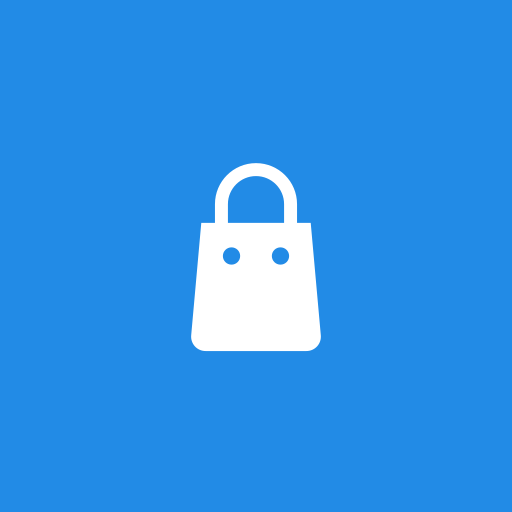
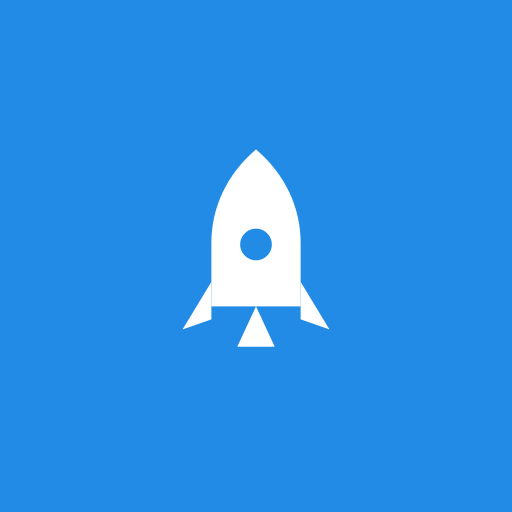
feat: rename project to "Starter Kit", update related documentation and translations

Changed region(s): [[0.3438, 0.2812, 0.6562, 0.6875]]

diff --git a/src/lib/i18n/locales/ur/common.ts b/src/lib/i18n/locales/ur/common.ts
@@ -2,7 +2,7 @@ import type { CommonTranslations } from '#/lib/i18n/locales/types'
 
 export const common: CommonTranslations = {
   app: {
-    name: 'کامرس',
+    name: 'سٹارٹر کٹ',
   },
   actions: {
     getStarted: 'شروع کریں',
@@ -79,23 +79,24 @@ export const common: CommonTranslations = {
   },
   features: {
     trust: {
-      title: 'صارفین کا بھروسہ',
-      description: 'ہر خریدار کے لیے محفوظ سائن ان اور محفوظ اکاؤنٹس۔',
+      title: 'پہلے سے محفوظ',
+      description:
+        'محفوظ سائن ان اور محفوظ اکاؤنٹس، رول کی بنیاد پر اجازتوں کے ساتھ۔',
     },
     speed: {
       title: 'ہر جگہ تیز رفتار',
-      description: 'ہر آلے پر ہر خریدار کے لیے صفحات فوری لوڈ ہوتے ہیں۔',
+      description: 'ہر آلے پر ہر صارف کے لیے صفحات فوری لوڈ ہوتے ہیں۔',
     },
     design: {
       title: 'دن ہو یا رات، شاندار نظر آئے',
-      description: 'ایک صاف ستھرا اسٹور فرنٹ جو لائٹ اور ڈارک موڈ کے مطابق ڈھل جاتا ہے۔',
+      description: 'ایک صاف ستھرا انٹرفیس جو لائٹ اور ڈارک موڈ کے مطابق ڈھل جاتا ہے۔',
     },
   },
   sidebar: {
     collapse: 'سائیڈبار سکیڑیں',
     expand: 'سائیڈبار پھیلائیں',
     close: 'سائیڈبار بند کریں',
-    backToStore: 'اسٹور پر واپس جائیں',
+    backToHome: 'ہوم پر واپس جائیں',
   },
   statCard: {
     vsLastPeriod: 'پچھلی مدت کے مقابلے میں',

diff --git a/src/lib/i18n/locales/ur/site.ts b/src/lib/i18n/locales/ur/site.ts
@@ -2,19 +2,18 @@ import type { SiteTranslations } from '#/lib/i18n/locales/types'
 
 export const site: SiteTranslations = {
   landing: {
-    badge: 'جدید اسٹور فرنٹس کے لیے تیار کردہ',
-    heroTitle: 'آن لائن فروخت کریں، بغیر',
-    heroHighlight: 'اضافی بوجھ کے',
+    badge: 'ٹین اسٹیک اسٹارٹ کے لیے ایک سٹارٹر کٹ',
+    heroTitle: 'اپنی اگلی ایپ بنائیں',
+    heroHighlight: 'بغیر بوائلر پلیٹ کے',
     subtitle:
-      'ایک تیز اور محفوظ اسٹور فرنٹ لانچ کریں جسے آپ کے گاہک پسند کریں گے۔ یہ اس طرح بنایا گیا ہے کہ آپ کے راستے میں نہ آئے، تاکہ آپ فروخت پر توجہ مرکوز کر سکیں۔',
+      'تصدیق، رول کی بنیاد پر اجازتیں، آف لائن ڈیٹا، اور کلاؤڈ فلیئر پر مبنی API — سب تیار، تاکہ آپ اپنی پروڈکٹ پر توجہ دے سکیں۔',
     getHelp: 'مدد حاصل کریں',
     announcementsLink: 'اعلانات',
     contactLink: 'ہم سے رابطہ کریں',
   },
   help: {
     title: 'مدد اور عمومی سوالات',
-    subtitle:
-      'اس ڈیش بورڈ سے اپنا اسٹور چلانے سے متعلق عام سوالات کے جوابات۔',
+    subtitle: 'اس ڈیش بورڈ کے استعمال سے متعلق عام سوالات کے جوابات۔',
     faqs: [
       {
         question: 'میں نیا پروڈکٹ کیسے شامل کروں؟',

diff --git a/src/lib/i18n/locales/en/common.ts b/src/lib/i18n/locales/en/common.ts
@@ -2,7 +2,7 @@ import type { CommonTranslations } from '#/lib/i18n/locales/types'
 
 export const common: CommonTranslations = {
   app: {
-    name: 'Commerce',
+    name: 'Starter Kit',
   },
   actions: {
     getStarted: 'Get started',
@@ -79,23 +79,24 @@ export const common: CommonTranslations = {
   },
   features: {
     trust: {
-      title: 'Trusted by customers',
-      description: 'Secure sign-in and protected accounts for every shopper.',
+      title: 'Secure by default',
+      description:
+        'Secure sign-in and protected accounts, with role-based permissions out of the box.',
     },
     speed: {
       title: 'Blazing fast, everywhere',
-      description: 'Pages load instantly for every customer, on any device.',
+      description: 'Pages load instantly for every user, on any device.',
     },
     design: {
       title: 'Looks great, day or night',
-      description: 'A clean storefront that adapts to light and dark mode.',
+      description: 'A clean interface that adapts to light and dark mode.',
     },
   },
   sidebar: {
     collapse: 'Collapse sidebar',
     expand: 'Expand sidebar',
     close: 'Close sidebar',
-    backToStore: 'Back to store',
+    backToHome: 'Back to home',
   },
   statCard: {
     vsLastPeriod: 'vs last period',

diff --git a/src/routes/auth/route.tsx b/src/routes/auth/route.tsx
@@ -1,6 +1,6 @@
 import { Link, Outlet, createFileRoute, redirect } from '@tanstack/react-router'
 import { Group, Stack, Text, Title } from '@mantine/core'
-import { IconShoppingBag } from '@tabler/icons-react'
+import { IconRocket } from '@tabler/icons-react'
 import { useTranslation } from 'react-i18next'
 import { features } from '#/lib/features'
 import { RouteError } from '#/components/layout/route-error'
@@ -36,7 +36,7 @@ function AuthLayout() {
         />
 
         <Link to="/" className="relative inline-flex w-fit items-center gap-2">
-          <IconShoppingBag size={28} stroke={1.5} />
+          <IconRocket size={28} stroke={1.5} />
           <Text fw={700} size="lg" c="white">
             {tCommon('app.name')}
           </Text>
@@ -82,7 +82,7 @@ function AuthLayout() {
       <div className="flex items-center justify-center p-6 sm:p-10">
         <div className="w-full max-w-sm">
           <div className="mb-8 flex items-center gap-2 lg:hidden">
-            <IconShoppingBag size={24} stroke={1.75} />
+            <IconRocket size={24} stroke={1.75} />
             <Text fw={700} size="lg">
               {tCommon('app.name')}
             </Text>

diff --git a/src/lib/i18n/locales/ur/auth.ts b/src/lib/i18n/locales/ur/auth.ts
@@ -2,9 +2,10 @@ import type { AuthTranslations } from '#/lib/i18n/locales/types'
 
 export const auth: AuthTranslations = {
   layout: {
-    title: 'آن لائن فروخت کے لیے آپ کو ہر چیز میسر ہے۔',
-    subtitle: 'ایک تیز، محفوظ اسٹور فرنٹ لانچ کریں اور اسے ایک ہی جگہ سے منظم کریں۔',
-    copyright: '© {{year}} کامرس',
+    title: 'اپنی اگلی ایپ بنانے کے لیے آپ کو ہر چیز میسر ہے۔',
+    subtitle:
+      'تصدیق، اجازتیں، اور ایک ایڈمن ڈیش بورڈ — سب تیار، بنانے کے لیے۔',
+    copyright: '© {{year}} سٹارٹر کٹ',
   },
   signIn: {
     title: 'خوش آمدید',
@@ -20,7 +21,7 @@ export const auth: AuthTranslations = {
   },
   setup: {
     title: 'شروع کریں',
-    subtitle: 'اپنا اسٹور سیٹ اپ کرنے کے لیے پہلا اکاؤنٹ بنائیں',
+    subtitle: 'شروع کرنے کے لیے پہلا اکاؤنٹ بنائیں',
     nameLabel: 'نام',
     namePlaceholder: 'جین ڈو',
     nameRequired: 'نام درکار ہے',

diff --git a/src/routes/__root.tsx b/src/routes/__root.tsx
@@ -60,12 +60,12 @@ export const Route = createRootRouteWithContext<{
           content: 'width=device-width, initial-scale=1',
         },
         {
-          title: 'Commerce | Sell online without the overhead',
+          title: 'Starter Kit | A batteries-included TanStack Start admin panel',
         },
         {
           name: 'description',
           content:
-            'Launch a fast, secure storefront your customers will love. Built to get out of your way, so you can focus on selling.',
+            'A production-ready starter kit for TanStack Start — authentication, role-based permissions, offline-first data, and a Cloudflare-native API, ready to build on.',
         },
         {
           name: 'theme-color',
@@ -73,11 +73,11 @@ export const Route = createRootRouteWithContext<{
         },
         {
           name: 'application-name',
-          content: 'Commerce',
+          content: 'Starter Kit',
         },
         {
           name: 'apple-mobile-web-app-title',
-          content: 'Commerce',
+          content: 'Starter Kit',
         },
         {
           name: 'apple-mobile-web-app-capable',

diff --git a/src/lib/i18n/locales/en/site.ts b/src/lib/i18n/locales/en/site.ts
@@ -2,19 +2,18 @@ import type { SiteTranslations } from '#/lib/i18n/locales/types'
 
 export const site: SiteTranslations = {
   landing: {
-    badge: 'Built for modern storefronts',
-    heroTitle: 'Sell online without',
-    heroHighlight: 'the overhead',
+    badge: 'A TanStack Start starter kit',
+    heroTitle: 'Build your next app',
+    heroHighlight: 'without the boilerplate',
     subtitle:
-      'Launch a fast, secure storefront your customers will love. Built to get out of your way, so you can focus on selling.',
+      'Authentication, role-based permissions, offline-first data, and a Cloudflare-native API — all wired up, so you can focus on your product.',
     getHelp: 'Get help',
     announcementsLink: 'Announcements',
     contactLink: 'Contact us',
   },
   help: {
     title: 'Help & FAQ',
-    subtitle:
-      'Answers to common questions about running your store from this dashboard.',
+    subtitle: 'Answers to common questions about using this dashboard.',
     faqs: [
       {
         question: 'How do I add a new product?',

diff --git a/src/lib/i18n/locales/en/auth.ts b/src/lib/i18n/locales/en/auth.ts
@@ -2,9 +2,10 @@ import type { AuthTranslations } from '#/lib/i18n/locales/types'
 
 export const auth: AuthTranslations = {
   layout: {
-    title: 'Everything you need to sell online.',
-    subtitle: 'Launch a fast, secure storefront and manage it all from one place.',
-    copyright: '© {{year}} Commerce',
+    title: 'Everything you need to ship your next app.',
+    subtitle:
+      'Authentication, permissions, and an admin dashboard — wired up and ready to build on.',
+    copyright: '© {{year}} Starter Kit',
   },
   signIn: {
     title: 'Welcome back',
@@ -20,7 +21,7 @@ export const auth: AuthTranslations = {
   },
   setup: {
     title: 'Get started',
-    subtitle: 'Create the first account to set up your store',
+    subtitle: 'Create the first account to get started',
     nameLabel: 'Name',
     namePlaceholder: 'Jane Doe',
     nameRequired: 'Name is required',

diff --git a/src/server/routes/v1/index.ts b/src/server/routes/v1/index.ts
@@ -5,9 +5,9 @@ import contact from './contact.v1'
 import feedback from './feedback.v1'
 
 /**
- * Public storefront-facing REST API. Stable, versioned contract mirroring
+ * Public site-facing REST API. Stable, versioned contract mirroring
  * `src/routes/site/` (contact, announcements, feedback) for any external
- * consumer (a storefront frontend, third-party integration, etc).
+ * consumer (a public frontend, third-party integration, etc).
  */
 const v1 = new OpenAPIHono<{ Bindings: Env }>()
   .route('/contact', contact)
@@ -15,6 +15,6 @@ const v1 = new OpenAPIHono<{ Bindings: Env }>()
   .route('/feedback', feedback)
 
 registerSecuritySchemes(v1)
-mountDocs(v1, 'Commerce API — v1')
+mountDocs(v1, 'Starter Kit API — v1')
 
 export default v1

diff --git a/src/server/routes/platform/index.ts b/src/server/routes/platform/index.ts
@@ -11,7 +11,7 @@ import setup from './setup.platform'
  * `src/server/actions/`. Meant for programmatic/agent consumers acting on
  * behalf of a signed-in user (session cookie or API key — both work here
  * since `requireAuth` resolves either transparently), not for the
- * storefront (see `v1` for that).
+ * public site (see `v1` for that).
  *
  * Session/passkey/api-key/admin management deliberately aren't mirrored
  * here — they were pure passthroughs to better-auth's own API
@@ -28,6 +28,6 @@ const platform = new OpenAPIHono<{ Bindings: Env }>()
   .route('/notes', notes)
 
 registerSecuritySchemes(platform)
-mountDocs(platform, 'Commerce API — Platform')
+mountDocs(platform, 'Starter Kit API — Platform')
 
 export default platform

diff --git a/src/components/header.tsx b/src/components/header.tsx
@@ -4,8 +4,8 @@ import { Anchor, Avatar, Button, Group, Menu, Text } from '@mantine/core'
 import {
   IconHome,
   IconLogout,
+  IconRocket,
   IconShieldLock,
-  IconShoppingBag,
   IconUserCircle,
 } from '@tabler/icons-react'
 import { useTranslation } from 'react-i18next'
@@ -26,7 +26,7 @@ export function Header() {
       <Group justify="space-between" px="md" py="sm" wrap="nowrap">
         <Anchor component={Link} to="/" underline="never" c="inherit">
           <Group gap={8} wrap="nowrap">
-            <IconShoppingBag size={24} stroke={1.75} />
+            <IconRocket size={24} stroke={1.75} />
             <Text fw={700} size="lg">
               {t('app.name')}
             </Text>

diff --git a/src/components/admin/admin-sidebar.tsx b/src/components/admin/admin-sidebar.tsx
@@ -163,7 +163,7 @@ export function AdminSidebar({
 
           <Stack gap={4} align="center">
             <Tooltip
-              label={tCommon('sidebar.backToStore')}
+              label={tCommon('sidebar.backToHome')}
               position="right"
               withArrow
             >
@@ -249,7 +249,7 @@ export function AdminSidebar({
             <NavLink
               component={Link}
               to="/home"
-              label={tCommon('sidebar.backToStore')}
+              label={tCommon('sidebar.backToHome')}
               leftSection={
                 <IconArrowLeft size={18} stroke={1.75} className="icon-rtl-flip" />
               }
